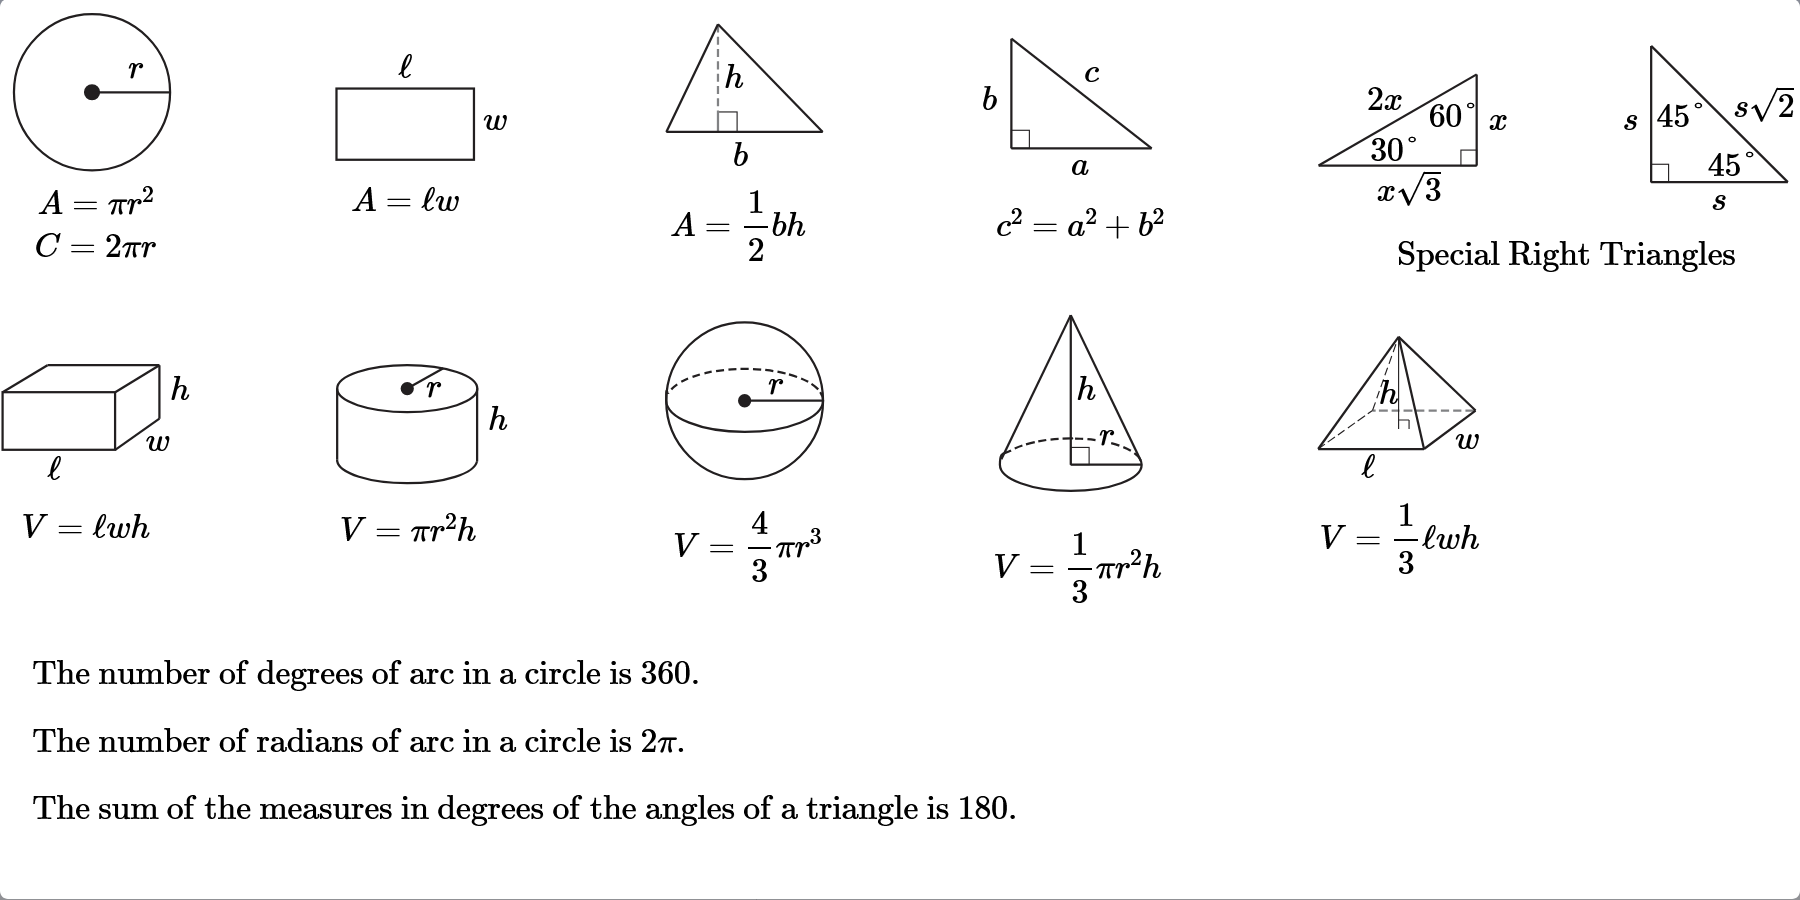
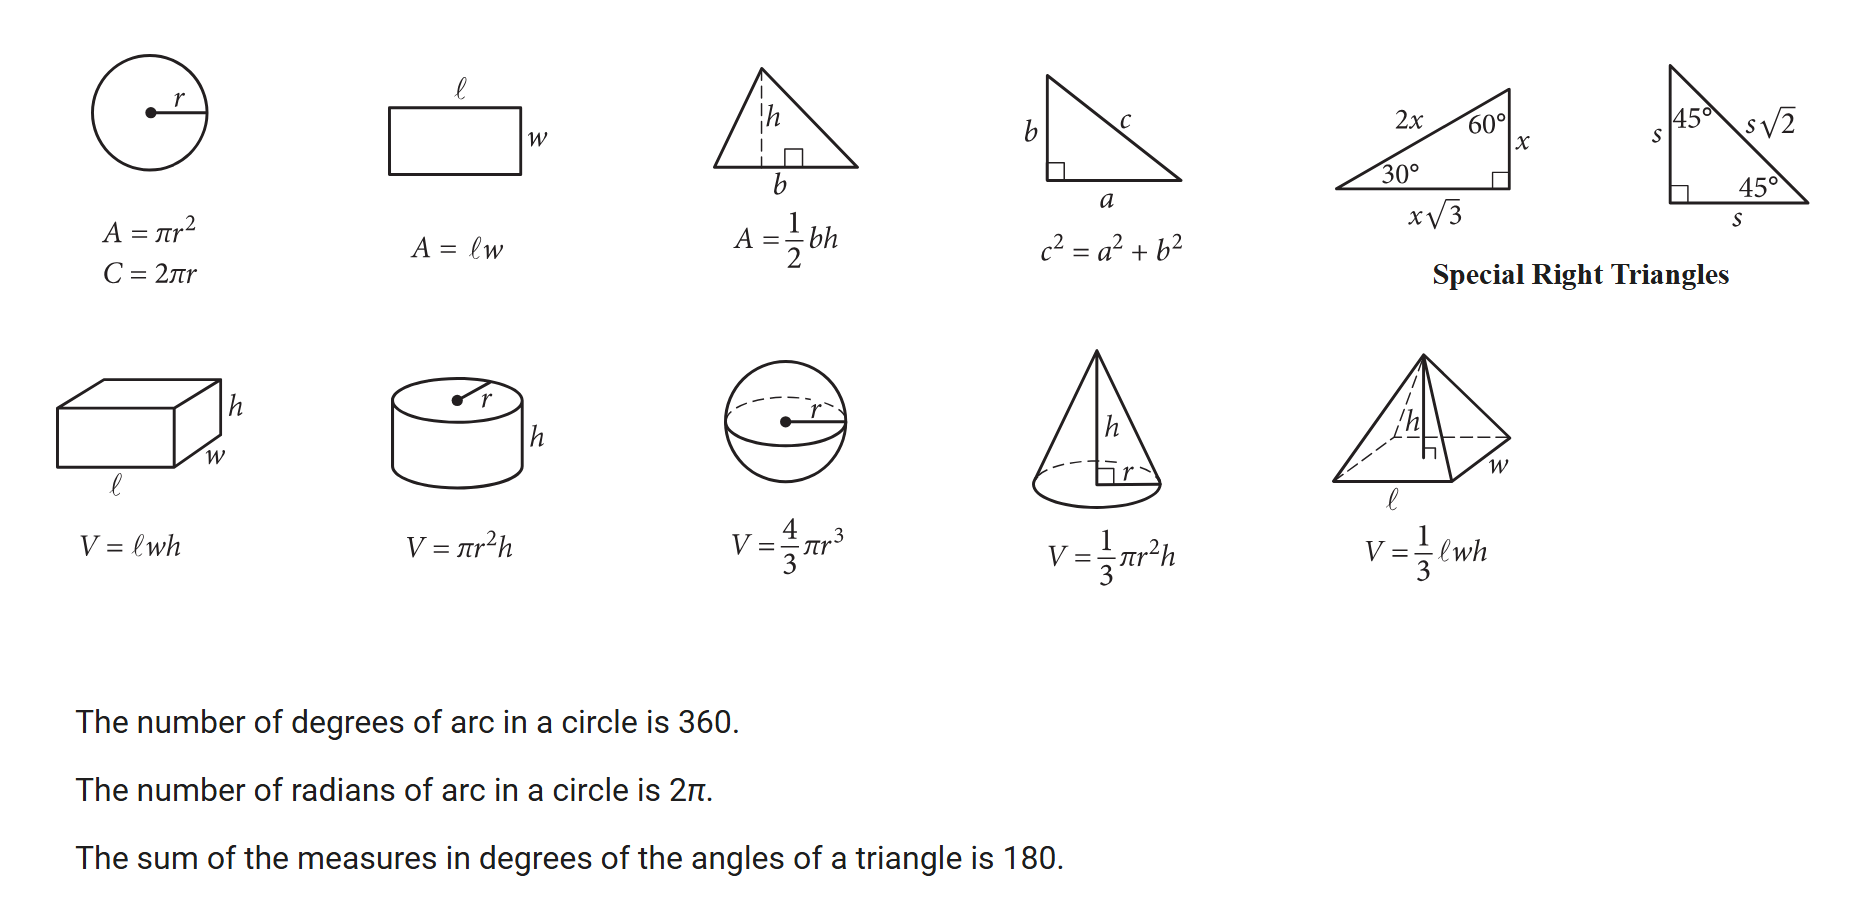
Update app UI

diff --git a/src/pages/Question.tsx b/src/pages/Question.tsx
@@ -29,6 +29,8 @@ const Question = () => {
   const [strikeoutMode, setStrikeoutMode] = useState(false);
   const [checkButtonVariant, setCheckButtonVariant] = useState<"default" | "destructive" | "success">("default");
   const [isSplitScreenActive, setIsSplitScreenActive] = useState(false);
+  const [splitPosition, setSplitPosition] = useState(50);
+  const [isResizingSplit, setIsResizingSplit] = useState(false);
 
   const currentQuestion = questions.find(q => q.id === questionNumber);
   
@@ -51,6 +53,31 @@ const Question = () => {
     setFreeResponseAnswer("");
     setCheckButtonVariant("default");
   }, [questionNumber]);
+
+  useEffect(() => {
+    if (!isSplitScreenActive) return;
+
+    const handleMouseMove = (e: MouseEvent) => {
+      if (isResizingSplit) {
+        const newPosition = (e.clientX / window.innerWidth) * 100;
+        setSplitPosition(Math.max(20, Math.min(80, newPosition)));
+      }
+    };
+
+    const handleMouseUp = () => {
+      setIsResizingSplit(false);
+    };
+
+    if (isResizingSplit) {
+      document.addEventListener('mousemove', handleMouseMove);
+      document.addEventListener('mouseup', handleMouseUp);
+    }
+
+    return () => {
+      document.removeEventListener('mousemove', handleMouseMove);
+      document.removeEventListener('mouseup', handleMouseUp);
+    };
+  }, [isResizingSplit, isSplitScreenActive]);
 
   const handlePrevious = () => {
     if (questionNumber > 1) {
@@ -95,11 +122,20 @@ const Question = () => {
 
   return (
     <div className="min-h-screen bg-background flex flex-col relative">
+      {/* Split Screen Divider */}
+      {isSplitScreenActive && (
+        <div 
+          className="fixed top-0 bottom-0 w-1 bg-border hover:bg-primary/50 cursor-col-resize z-50 transition-colors"
+          style={{ left: `${splitPosition}%` }}
+          onMouseDown={() => setIsResizingSplit(true)}
+        />
+      )}
+
       {/* Header */}
       <header className="border-b border-border bg-card sticky top-0 z-10">
         <div 
           className="container mx-auto px-4 py-4"
-          style={isSplitScreenActive ? { maxWidth: "50%", marginLeft: 0 } : undefined}
+          style={isSplitScreenActive ? { maxWidth: `${splitPosition}%`, marginLeft: 0 } : undefined}
         >
           <div className="flex items-center justify-between">
             <Button
@@ -121,7 +157,7 @@ const Question = () => {
       {/* Main Content */}
       <main 
         className="flex-1 px-4 py-8"
-        style={isSplitScreenActive ? { maxWidth: "50%", marginLeft: 0 } : { maxWidth: "1280px", margin: "0 auto", width: "100%" }}
+        style={isSplitScreenActive ? { maxWidth: `${splitPosition}%`, marginLeft: 0 } : { maxWidth: "1280px", margin: "0 auto", width: "100%" }}
       >
         <Card className="p-8 relative" style={{ maxWidth: isSplitScreenActive ? "100%" : "56rem" }}>
           {/* Question Number Badge */}

diff --git a/index.html b/index.html
@@ -19,5 +19,10 @@
   <body>
     <div id="root"></div>
     <script type="module" src="/src/main.tsx"></script>
+    <script type="text/x-mathjax-config">
+      MathJax.Hub.Config({
+        showMathMenu: false
+      });
+    </script>
   </body>
 </html>

diff --git a/src/components/DraggableWindow.tsx b/src/components/DraggableWindow.tsx
@@ -146,8 +146,8 @@ export const DraggableWindow = ({
     setIsSplitScreen(newSplitState);
     
     if (newSplitState) {
-      // Enable split screen
-      const halfWidth = window.innerWidth / 2;
+      // Enable split screen - start at 50%
+      const halfWidth = window.innerWidth * 0.5;
       setPosition({ x: halfWidth, y: 0 });
       setSize({ width: halfWidth, height: window.innerHeight });
     } else {